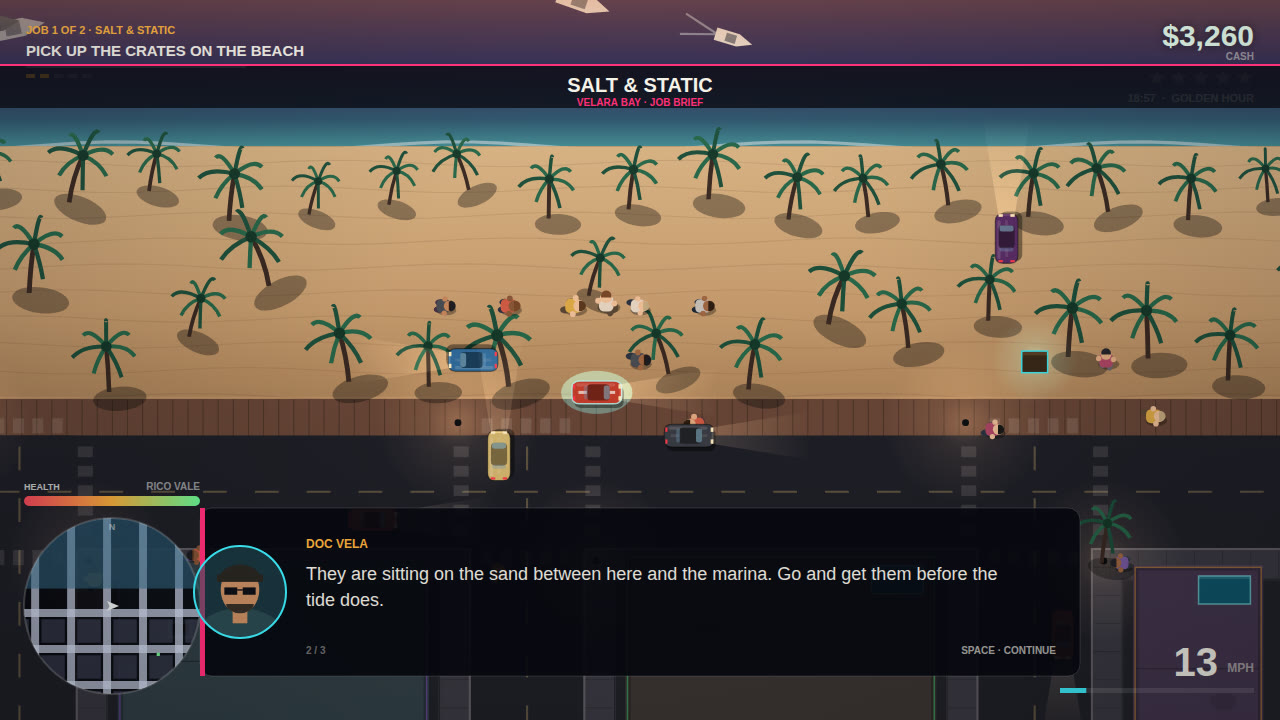
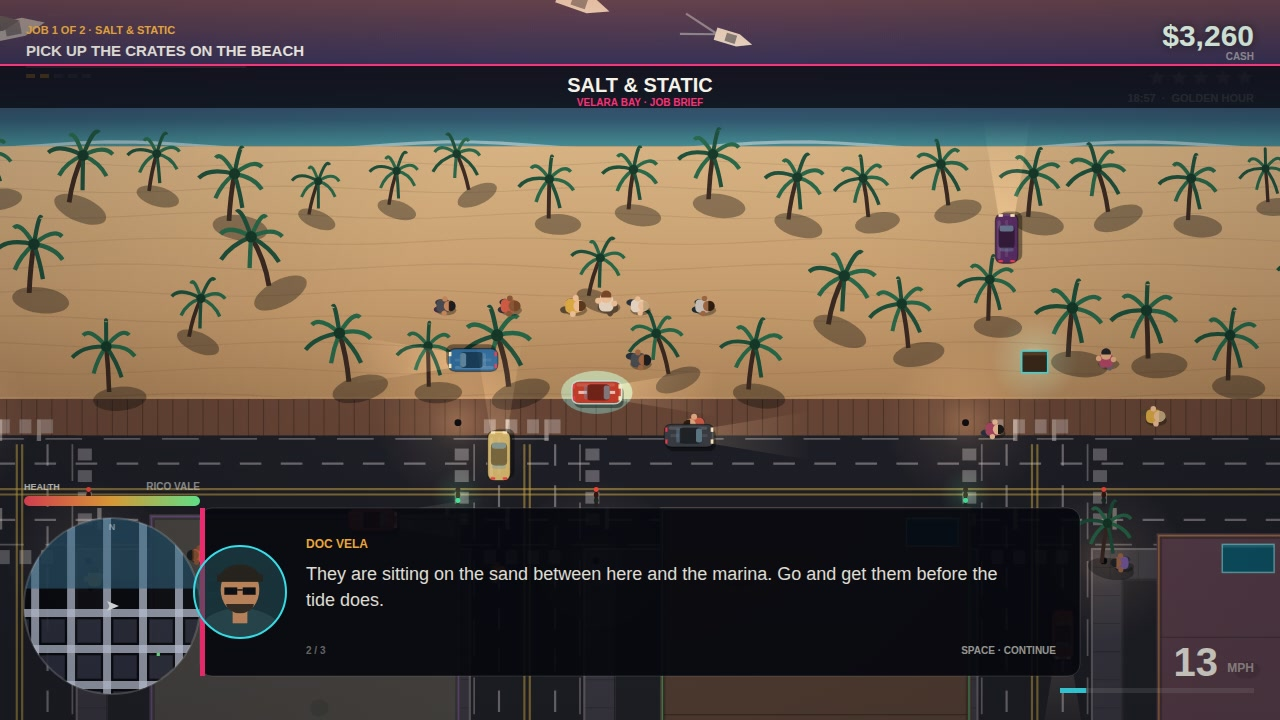
City view: true 3-face buildings with lit windows, shadows and a dusk tint

diff --git a/game/src/render/city-view.js b/game/src/render/city-view.js
@@ -3,7 +3,8 @@
 
 import { CITY, NEON_NAMES, PALETTE, WORLD } from '../core/config.js';
 import { hash01 } from '../core/math.js';
-import { mood, hexToRgba } from './palette.js';
+import { lightFor } from '../world/city.js';
+import { mixHex, mood, hexToRgba } from './palette.js';
 
 const glowCache = new Map();
 
@@ -239,42 +240,11 @@ export function drawStreets(ctx, state, view) {
     }
   }
 
-  // Paint: centre dashes, junction boxes, crossings.
-  ctx.strokeStyle = 'rgba(214,190,120,0.35)';
-  ctx.lineWidth = 2;
-  ctx.setLineDash([22, 26]);
-  for (const cx of city.cols) {
-    if (cx + half < left || cx - half > right) continue;
-    ctx.beginPath();
-    ctx.moveTo(cx, Math.max(WORLD.beachY + 10, top - 40));
-    ctx.lineTo(cx, Math.min(WORLD.height, bottom + 40));
-    ctx.stroke();
-  }
-  for (const cy of city.rows) {
-    if (cy + half < top || cy - half > bottom) continue;
-    ctx.beginPath();
-    ctx.moveTo(left - 40, cy);
-    ctx.lineTo(right + 40, cy);
-    ctx.stroke();
-  }
-  ctx.setLineDash([]);
-
-  ctx.fillStyle = 'rgba(255,255,255,0.12)';
-  ctx.strokeStyle = 'rgba(255,255,255,0.22)';
-  for (const cx of city.cols) {
-    if (cx + half < left || cx - half > right) continue;
-    for (const cy of city.rows) {
-      if (cy + half < top || cy - half > bottom) continue;
-      // Crossings on all four sides of the junction.
-      for (let k = 0; k < 5; k += 1) {
-        const off = -half + 10 + k * 18;
-        ctx.fillRect(cx + off, cy - half - 16, 10, 14);
-        ctx.fillRect(cx + off, cy + half + 2, 10, 14);
-        ctx.fillRect(cx - half - 16, cy + off, 14, 10);
-        ctx.fillRect(cx + half + 2, cy + off, 14, 10);
-      }
-    }
-  }
+  // Paint. Every avenue is a four-lane boulevard: a double-yellow centre line through the
+  // junction-to-junction stretch, a dashed white divider down each half, a white kerb line and
+  // angle-parked bays along it, then stop bars, turn arrows and crossings at each corner.
+  drawRoadPaint(ctx, city, view);
+  drawTrafficLights(ctx, state, view);
 
   // Street lamps: a pool of warm light after dark.
   const m = mood(state.tod);
@@ -290,7 +260,116 @@ export function drawStreets(ctx, state, view) {
   }
 }
 
-/** Tyre marks: two dark strokes per skid sample, fading with the rest of the list. */
+/** Street markings: the grid reads as a four-lane boulevard network, not one lane a side. */
+function drawRoadPaint(ctx, city, view) {
+  const { left, right, top, bottom } = view;
+  const half = city.half;
+  const lane = half * 0.5;
+
+  const inH = (cx) => cx + half >= left - 40 && cx - half <= right + 40;
+  const inV = (cy) => cy + half >= top - 40 && cy - half <= bottom + 40;
+
+  const dash = (x, y, dx, dy, color, w, on, off) => {
+    ctx.strokeStyle = color;
+    ctx.lineWidth = w;
+    ctx.setLineDash([on, off]);
+    ctx.beginPath();
+    ctx.moveTo(x, y);
+    ctx.lineTo(x + dx, y + dy);
+    ctx.stroke();
+    ctx.setLineDash([]);
+  };
+
+  // Centre lines: double yellow down the avenue, double yellow across the street.
+  for (const cx of city.cols) {
+    if (!inH(cx)) continue;
+    const yA = Math.max(WORLD.beachY + 8, top - 60);
+    const yB = Math.min(WORLD.height, bottom + 60);
+    dash(cx - 2.5, yA, 0, yB - yA, 'rgba(210,178,72,0.55)', 2, 1, 0);
+    dash(cx + 2.5, yA, 0, yB - yA, 'rgba(210,178,72,0.55)', 2, 1, 0);
+    // Lane marker each side of the centre, dashed.
+    dash(cx - lane, yA, 0, yB - yA, 'rgba(230,232,240,0.42)', 2, 20, 18);
+    dash(cx + lane, yA, 0, yB - yA, 'rgba(230,232,240,0.42)', 2, 20, 18);
+    // Kerb lines.
+    dash(cx - half + 3, yA, 0, yB - yA, 'rgba(255,255,255,0.3)', 1.6, 34, 20);
+    dash(cx + half - 3, yA, 0, yB - yA, 'rgba(255,255,255,0.3)', 1.6, 34, 20);
+  }
+  for (const cy of city.rows) {
+    if (!inV(cy)) continue;
+    const xA = Math.max(left - 60, 0);
+    const xB = Math.min(right + 60, WORLD.width);
+    dash(xA, cy - 2.5, xB - xA, 0, 'rgba(210,178,72,0.55)', 2, 1, 0);
+    dash(xA, cy + 2.5, xB - xA, 0, 'rgba(210,178,72,0.55)', 2, 1, 0);
+    dash(xA, cy - lane, xB - xA, 0, 'rgba(230,232,240,0.42)', 2, 20, 18);
+    dash(xA, cy + lane, xB - xA, 0, 'rgba(230,232,240,0.42)', 2, 20, 18);
+    dash(xA, cy - half + 3, xB - xA, 0, 'rgba(255,255,255,0.3)', 1.6, 34, 20);
+    dash(xA, cy + half - 3, xB - xA, 0, 'rgba(255,255,255,0.3)', 1.6, 34, 20);
+  }
+
+  // Zebra crossings on every approach to every junction.
+  ctx.fillStyle = 'rgba(230,232,240,0.35)';
+  for (const cx of city.cols) {
+    if (!inH(cx)) continue;
+    for (const cy of city.rows) {
+      if (!inV(cy)) continue;
+      for (let k = 0; k < 4; k += 1) {
+        const off = -half + 12 + k * 20;
+        ctx.fillRect(cx + off, cy - half - 15, 11, 13);
+        ctx.fillRect(cx + off, cy + half + 2, 11, 13);
+        ctx.fillRect(cx - half - 15, cy + off, 13, 11);
+        ctx.fillRect(cx + half + 2, cy + off, 13, 11);
+      }
+    }
+  }
+
+  // Stop bars where an approach lane meets the crossing.
+  ctx.fillStyle = 'rgba(255,255,255,0.4)';
+  ctx.lineWidth = 5;
+  for (const cx of city.cols) {
+    if (!inH(cx)) continue;
+    for (const cy of city.rows) {
+      if (!inV(cy)) continue;
+      ctx.fillRect(cx - half - 24, cy + 15, 4, half - 32);
+      ctx.fillRect(cx + half + 20, cy + 15, 4, half - 32);
+      ctx.fillRect(cx - half + 32, cy + 15, 4, half - 32);
+      ctx.fillRect(cx - half + 32, cy - half - 15, 4, half - 32);
+      ctx.fillRect(cx + half - 36, cy - half - 15, 4, half - 32);
+    }
+  }
+}
+
+/** A signal head at each corner of every junction, lit the colour traffic is seeing. */
+function drawTrafficLights(ctx, state, view) {
+  const city = state.city;
+  const { left, right, top, bottom } = view;
+  const half = city.half;
+  const m = mood(state.tod);
+  if (m.night < 0.08) return; // unlit heads just read as noise in daylight
+  for (const cx of city.cols) {
+    if (cx + half < left - 40 || cx - half > right + 40) continue;
+    for (const cy of city.rows) {
+      if (cy + half < top - 40 || cy - half > bottom + 40) continue;
+      for (let side = 0; side < 2; side += 1) {
+        const sx = cx + (side ? 1 : -1) * (half + 12);
+        const hState = lightFor(city, side === 0 ? 'h' : 'v', state.time);
+        ctx.fillStyle = '#1a1a24';
+        ctx.fillRect(sx - 1.5, cy - 4, 3, 18);
+        const lamps = hState === 'green' ? ['#33141a', '#33140d', '#3dff9a']
+          : hState === 'amber' ? ['#33141a', '#ffaa2a', '#12281d']
+          : ['#ff4a3a', '#33100d', '#12281d'];
+        for (let i = 0; i < 3; i += 1) {
+          ctx.beginPath();
+          ctx.arc(sx, cy - 2 + i * 5, 2.3, 0, Math.PI * 2);
+          ctx.fillStyle = lamps[i];
+          ctx.fill();
+        }
+        if (hState !== 'red') {
+          drawGlow(ctx, sx, cy + 3, 24, hState === 'green' ? '#4dff9a' : '#ffaa2a', 0.24);
+        }
+      }
+    }
+  }
+}
 export function drawSkids(ctx, state, view) {
   const { left, right, top, bottom } = view;
   ctx.lineCap = 'round';
@@ -309,53 +388,114 @@ export function drawSkids(ctx, state, view) {
 export function drawBuildings(ctx, state, view) {
   const { left, right, top, bottom } = view;
   const m = mood(state.tod);
+  const dusk = 0.08 + m.night * 0.12;
   const visible = [];
   for (const b of state.city.buildings) {
-    const ext = 8 + b.height * 11;
+    const ext = 14 + b.height * 28;
     if (b.x + b.w < left - 40 || b.x > right + 40) continue;
     if (b.y + b.h + 20 < top - 40 || b.y - ext - 70 > bottom + 40) continue;
     visible.push(b);
   }
   visible.sort((a, b) => (a.y + a.h) - (b.y + b.h));
 
-  // Ground shadows first, so no shadow lands on a roof in front.
-  ctx.fillStyle = 'rgba(4,4,10,0.42)';
+  // Soft ground shadows first, so no shadow lands on a roof in front.
   for (const b of visible) {
-    const ext = 8 + b.height * 11;
-    ctx.fillRect(b.x + 10, b.y + b.h - ext + 12, b.w - 4, ext + 4);
+    const ext = 14 + b.height * 28;
+    const skew = ext * 0.42;
+    const base = b.y + b.h;
+    const layers = [
+      ['rgba(4,4,10,0.30)', 8, 6, ext * 0.78],
+      ['rgba(4,4,10,0.20)', 13, 10, ext * 0.55],
+      ['rgba(4,4,10,0.10)', 17, 13, ext * 0.32],
+    ];
+    for (const [fill, ox, oy, hgt] of layers) {
+      ctx.fillStyle = fill;
+      ctx.beginPath();
+      ctx.moveTo(b.x + 4 + skew + ox, base + oy);
+      ctx.lineTo(b.x + b.w + skew + ox, base + oy);
+      ctx.lineTo(b.x + b.w + skew + ox - hgt, base + oy - hgt * 0.22);
+      ctx.lineTo(b.x + 4 + skew + ox - hgt, base + oy - hgt * 0.22);
+      ctx.closePath();
+      ctx.fill();
+    }
   }
 
   for (const b of visible) {
-    const ext = 8 + b.height * 11;
-    const wallY = b.y + b.h - ext;
-    const dark = shade(b.tone, -0.5);
-    const roofTone = shade(b.tone, 0.3 + b.height * 0.02);
+    const ext = 14 + b.height * 28;
+    const skew = ext * 0.42;
+    const base = b.y + b.h;
+    const topY = base - ext;
 
-    // Facade.
-    ctx.fillStyle = dark;
-    ctx.fillRect(b.x, wallY, b.w, ext);
-    ctx.fillStyle = 'rgba(0,0,0,0.35)';
-    ctx.fillRect(b.x, wallY, b.w, 2);
+    // Face tones: a flat tone, a side darker by a fixed factor, a roof nearer the sky.
+    let front = shade(b.tone, -0.28);
+    if (dusk > 0) front = mixHex(front, m.horizon, dusk);
+    let side = shade(b.tone, -0.28 - 0.38);
+    if (dusk > 0) side = mixHex(side, m.horizon, dusk);
+    let roofTone = shade(b.tone, 0.3 + b.height * 0.02);
+    if (dusk > 0) roofTone = mixHex(roofTone, m.horizon, dusk);
 
-    // Windows: small warm rectangles, more of them lit as the light goes.
-    const litChance = 0.18 + m.night * 0.55;
-    const cols = Math.max(2, Math.floor((b.w - 12) / 15));
-    const rows = ext > 22 ? 2 : 1;
-    const winW = Math.min(7, (b.w - 14) / cols - 4);
-    const winH = rows === 2 ? 5 : 6;
+    // Side face (east wall) first, so the front face and roof sit on top of it.
+    ctx.fillStyle = side;
+    ctx.beginPath();
+    ctx.moveTo(b.x + b.w, base);
+    ctx.lineTo(b.x + b.w, b.y);
+    ctx.lineTo(b.x + b.w + skew, b.y - ext);
+    ctx.lineTo(b.x + b.w + skew, base - ext);
+    ctx.closePath();
+    ctx.fill();
+    // A crisp edge where the side meets the front, and a darker seam at the base.
+    ctx.strokeStyle = 'rgba(0,0,0,0.28)';
+    ctx.lineWidth = 1;
+    ctx.beginPath();
+    ctx.moveTo(b.x + b.w, base);
+    ctx.lineTo(b.x + b.w + skew, base - ext);
+    ctx.stroke();
+
+    // Front face.
+    ctx.fillStyle = front;
+    ctx.beginPath();
+    ctx.moveTo(b.x, base);
+    ctx.lineTo(b.x + b.w, base);
+    ctx.lineTo(b.x + b.w + skew, topY);
+    ctx.lineTo(b.x + skew, topY);
+    ctx.closePath();
+    ctx.fill();
+    ctx.strokeStyle = 'rgba(0,0,0,0.3)';
+    ctx.lineWidth = 1.4;
+    ctx.stroke();
+    ctx.fillStyle = 'rgba(0,0,0,0.4)';
+    ctx.fillRect(b.x, base - 2, b.w + skew, 2);
+
+    // Windows: a grid of small quads riding the face's lean, mostly lit with a few dark cells.
+    const litChance = 0.34 + m.night * 0.5;
+    const cols = Math.max(2, Math.floor((b.w - 14) / 15));
+    const rows = ext > 24 ? 4 : ext > 14 ? 3 : 2;
+    const winW = Math.min(7, (b.w - 16) / cols - 4);
+    const winH = Math.min(9, ext / rows - 3);
+    const colStep = (b.w - 16) / cols;
     for (let r = 0; r < rows; r += 1) {
+      const f = 0.12 + (r / rows) * 0.76;
+      const wy = topY + ext * f;
+      const lean = skew * f;
       for (let c = 0; c < cols; c += 1) {
         const h = hash01(b.seed, c, r);
-        if (h > litChance) continue;
-        const x = b.x + 8 + c * ((b.w - 16) / cols);
-        const y = wallY + 5 + r * (ext / rows);
-        ctx.fillStyle = h > 0.82 ? 'rgba(255,240,210,0.95)' : 'rgba(255,196,120,0.72)';
-        ctx.fillRect(x, y, winW, winH);
+        if (h > 0.96) continue;
+        const lit = h <= litChance;
+        const wx = b.x + 8 + c * colStep;
+        ctx.fillStyle = lit ? (h > 0.86 ? 'rgba(255,240,210,0.95)' : 'rgba(255,196,120,0.72)')
+          : 'rgba(8,10,16,0.55)';
+        ctx.beginPath();
+        ctx.moveTo(wx + lean, wy);
+        ctx.lineTo(wx + lean + winW, wy + Math.max(1.5, lean * 0.08));
+        ctx.lineTo(wx + lean + winW, wy + winH);
+        ctx.lineTo(wx + lean, wy + winH);
+        ctx.closePath();
+        ctx.fill();
       }
     }
 
-    // Roof: a tarred deck inside a parapet.
-    const rx = b.x;
+    // Roof: a tarred deck inside a parapet, the footprint pushed up and over.
+    const rx = b.x + skew;
     const ry = b.y - ext;
     ctx.fillStyle = roofTone;
     ctx.fillRect(rx, ry, b.w, b.h);
@@ -442,14 +582,14 @@ export function drawBuildings(ctx, state, view) {
     // Neon: a sign band above the shopfront, and an edge light on some roofs.
     if (b.shop && b.w > 60) {
       const bandW = Math.min(b.w - 16, 120);
-      const bx = b.x + 8;
-      const by = wallY + ext - 11;
+      const bx = b.x + skew * 0.35;
+      const by = base - 11;
       ctx.fillStyle = hexToRgba(b.neon, 0.9);
       ctx.fillRect(bx, by, bandW, 3);
       drawGlow(ctx, bx + bandW / 2, by, Math.max(28, bandW * 0.5), b.neon, 0.32 + m.night * 0.3);
       drawGlow(ctx, bx + bandW / 2, by + 20, Math.max(40, bandW * 0.7), b.neon, 0.1 + m.night * 0.16);
       if (b.label && b.w > 92) {
-        ctx.font = `700 8px "Segoe UI", Arial, sans-serif`;
+        ctx.font = '700 8px "Segoe UI", Arial, sans-serif';
         ctx.fillStyle = hexToRgba(b.neon, 0.95);
         ctx.textAlign = 'left';
         ctx.fillText(b.label.toUpperCase(), bx + 2, by - 3);
@@ -458,7 +598,7 @@ export function drawBuildings(ctx, state, view) {
     if (b.height > 1.3) {
       ctx.strokeStyle = hexToRgba(b.neon, 0.25 + m.night * 0.5);
       ctx.lineWidth = 1.4;
-      ctx.strokeRect(b.x + 2, b.y - ext + 2, b.w - 4, b.h - 4);
+      ctx.strokeRect(rx + 2, ry + 2, b.w - 4, b.h - 4);
     }
   }
 
